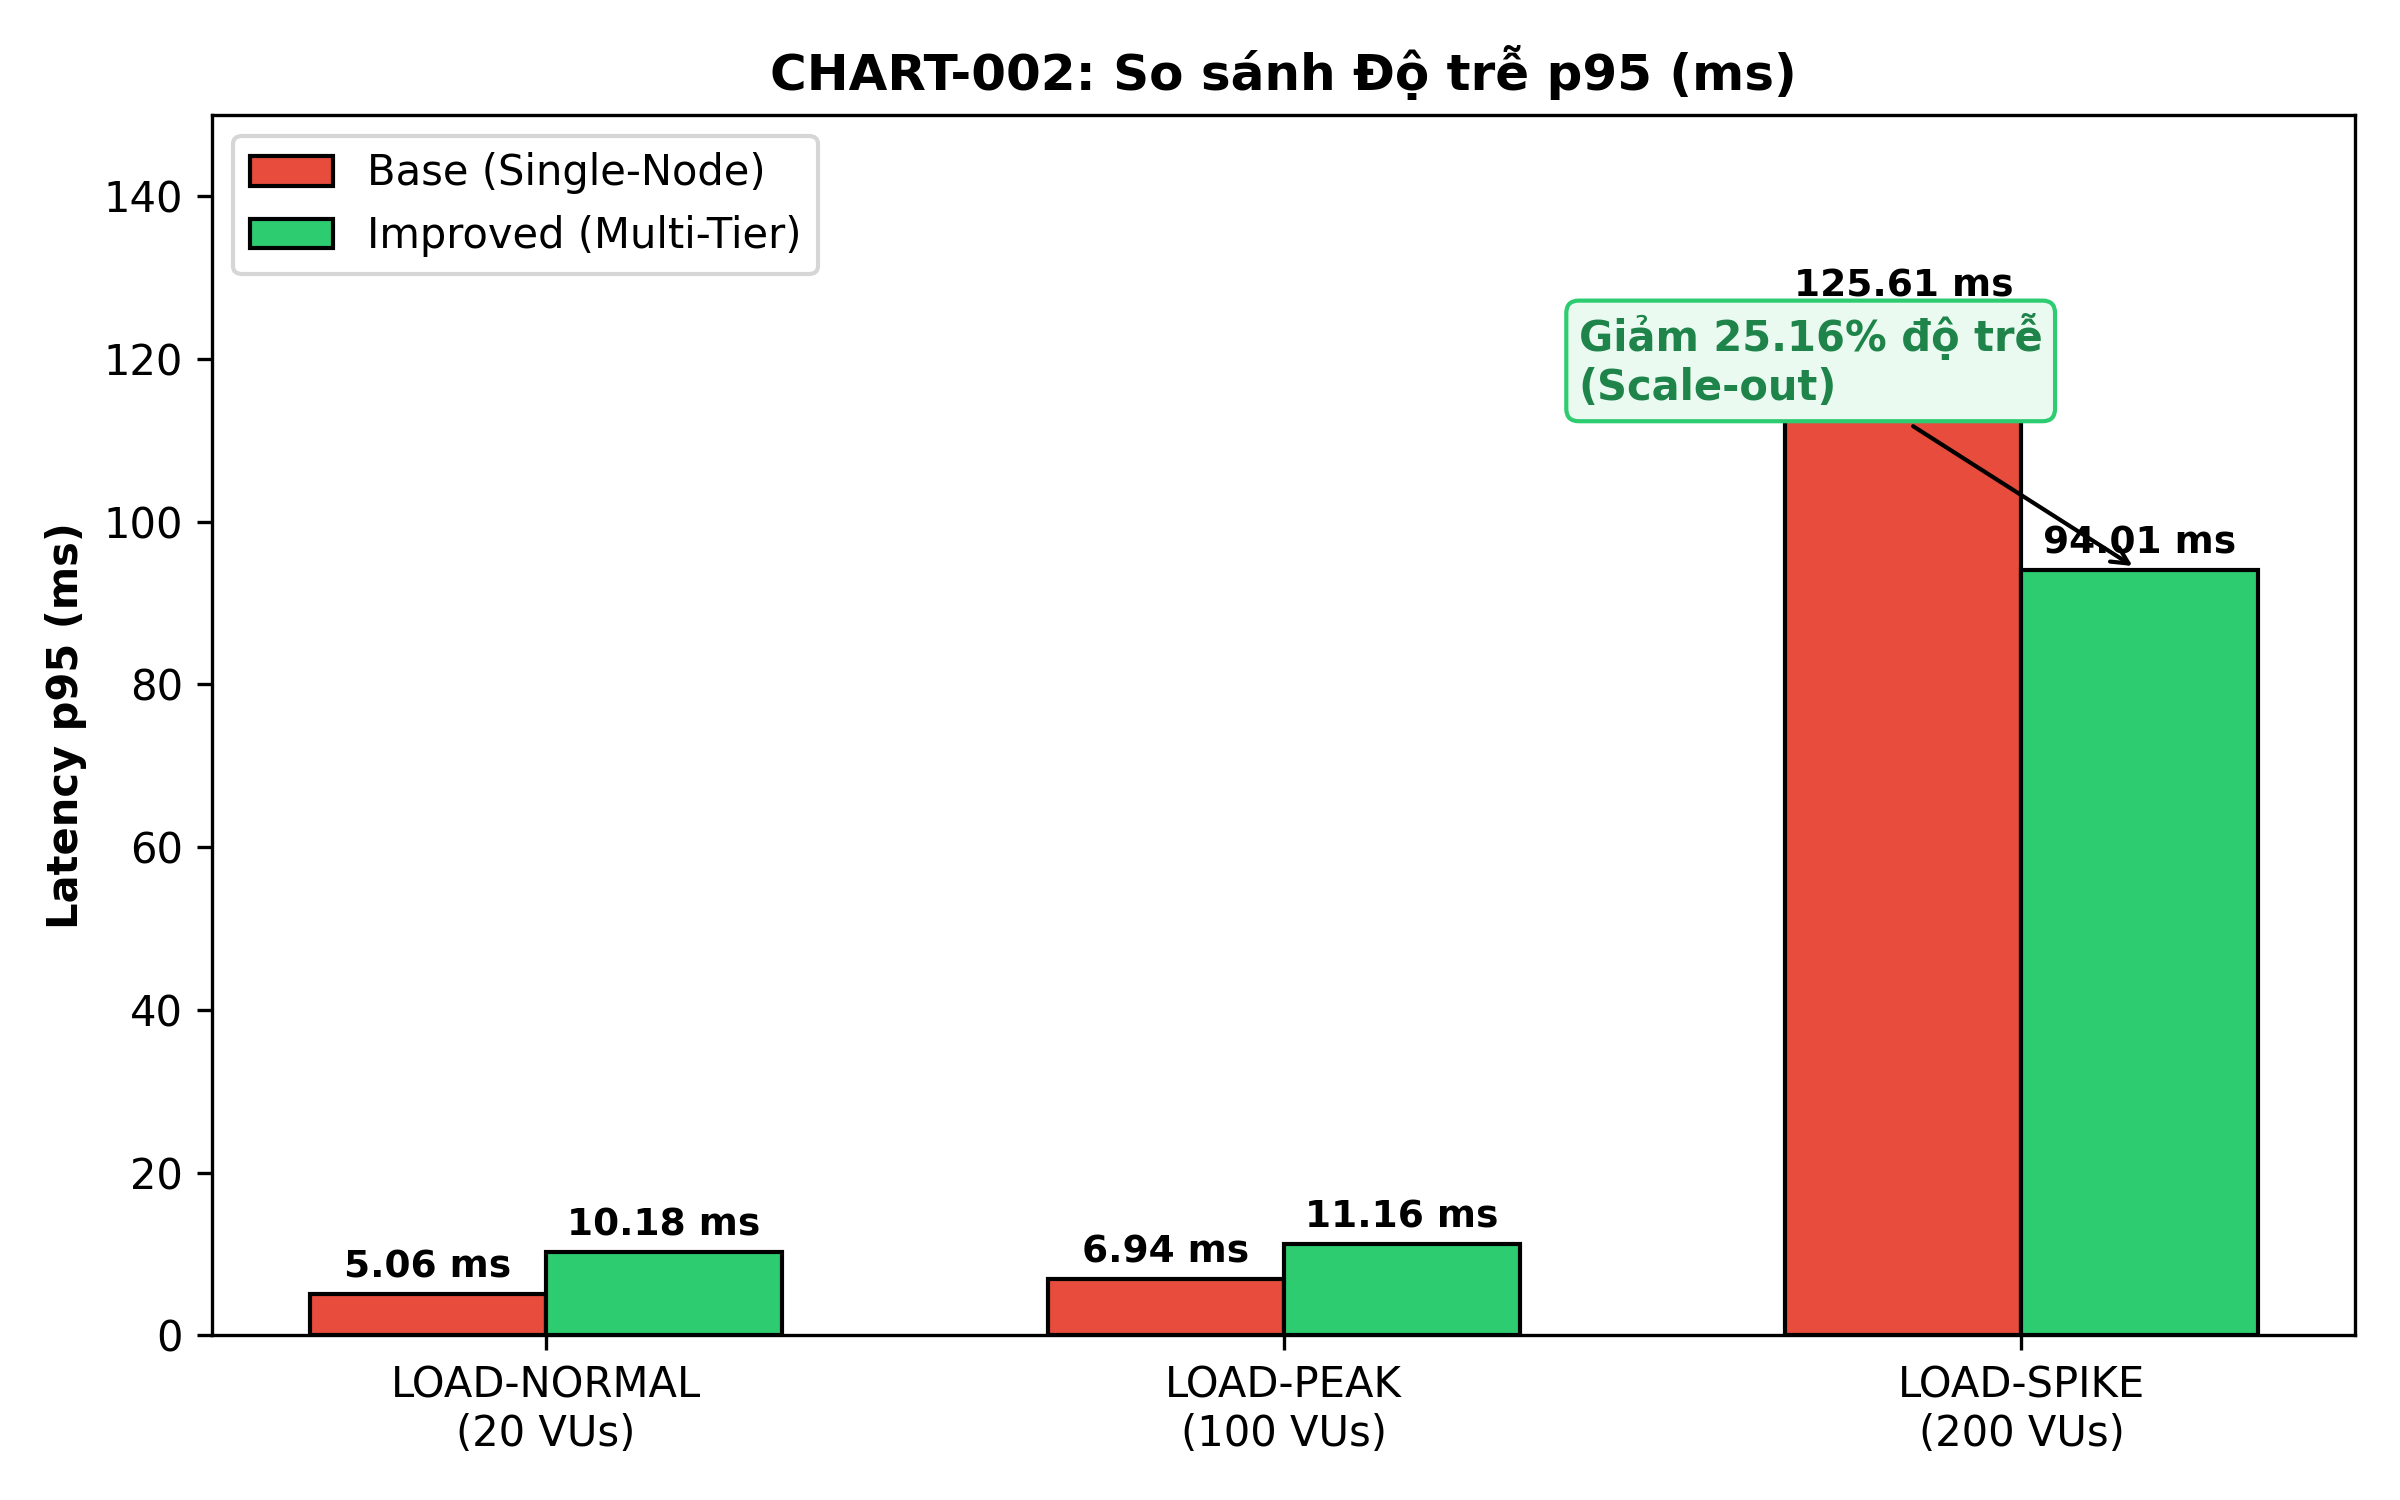
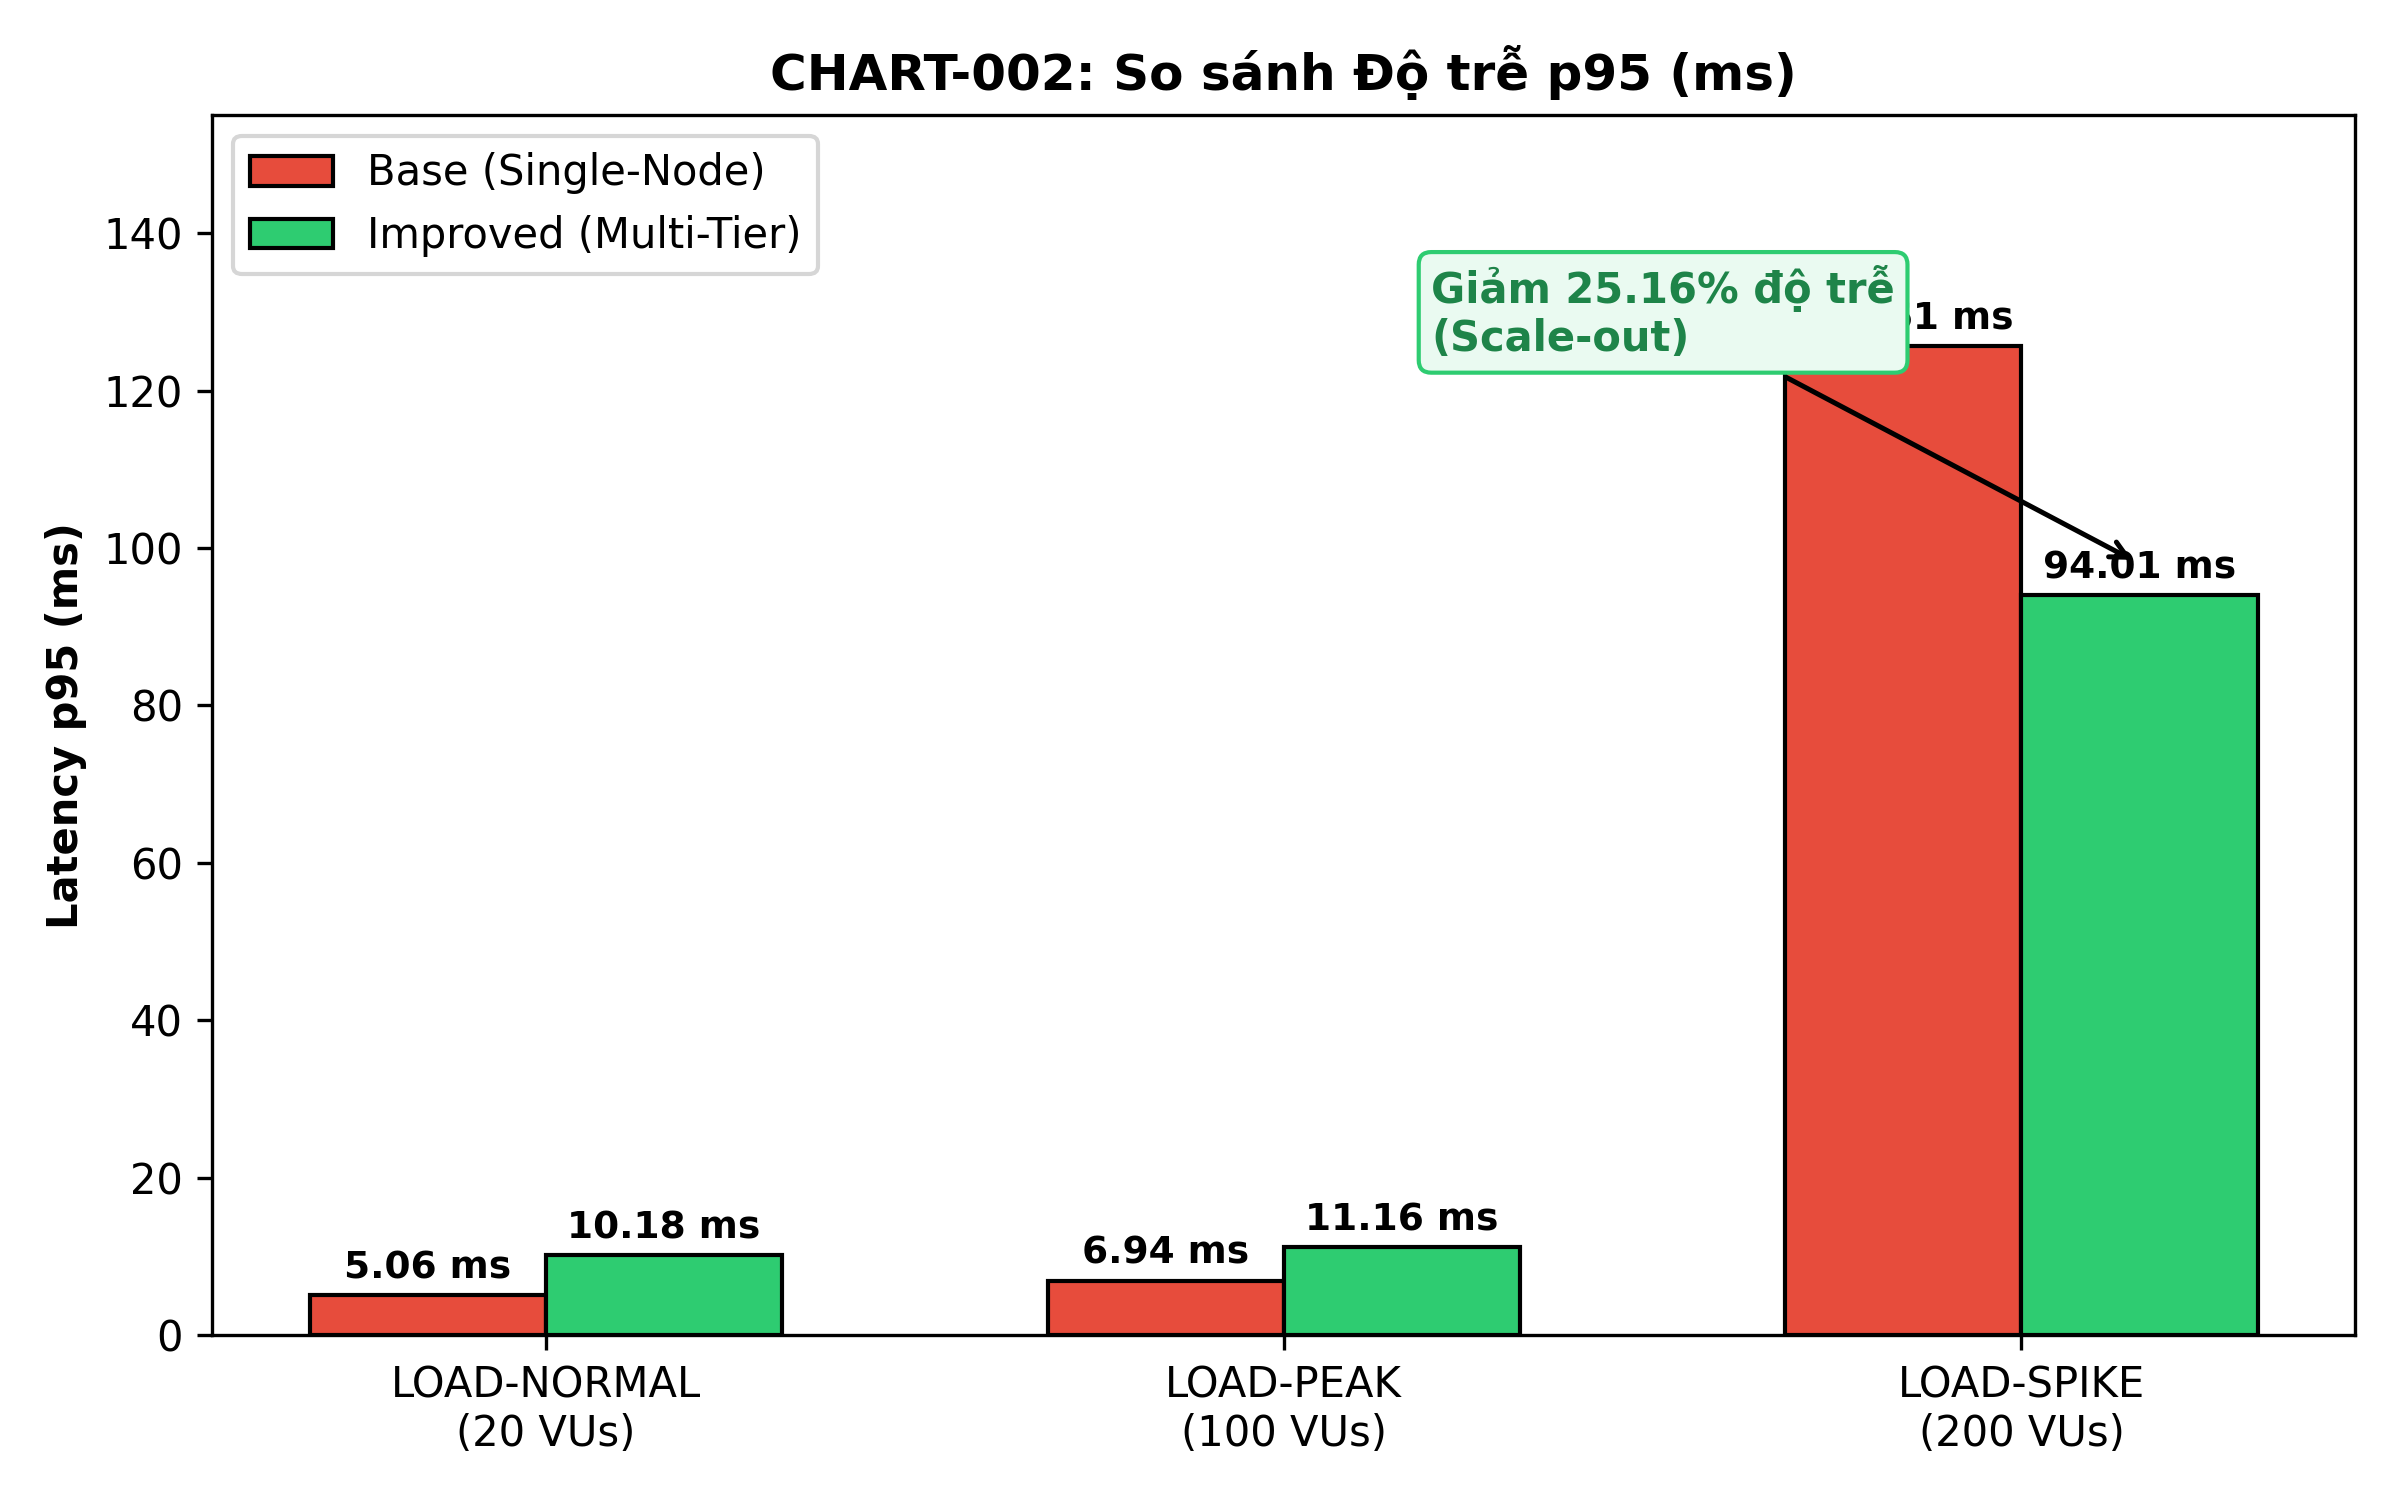
fix(charts): sua loi de chu chart-002 va bo sung duong SLO tren chart-003

diff --git a/scripts/generate_charts.py b/scripts/generate_charts.py
@@ -3,11 +3,10 @@ import pandas as pd
 import matplotlib.pyplot as plt
 import numpy as np
 
-# 1. Tao thu muc luu tru neu chua co
 os.makedirs("results", exist_ok=True)
 os.makedirs("docs/anh", exist_ok=True)
 
-# 2. Tong hop du lieu bang doi dau bang pandas
+# 1. Bảng dữ liệu tổng hợp
 benchmark_data = {
     "Kịch bản": ["LOAD-NORMAL (20 VUs)", "LOAD-PEAK (100 VUs)", "LOAD-SPIKE (200 VUs)"],
     "Throughput_Base_RPS": [86.51, 429.83, 518.94],
@@ -19,14 +18,8 @@ benchmark_data = {
 }
 
 df = pd.DataFrame(benchmark_data)
-csv_path = "results/benchmark_summary.csv"
-df.to_csv(csv_path, index=False, encoding="utf-8-sig")
+df.to_csv("results/benchmark_summary.csv", index=False, encoding="utf-8-sig")
 
-print("=== BẢNG TỔNG HỢP HIỆU NĂNG (PANDAS DATAFRAME) ===")
-print(df.to_string(index=False))
-print(f"\n-> Đã lưu bảng tổng hợp: {csv_path}")
-
-# 3. Ve bieu do bang Matplotlib tu DataFrame
 scenarios = ['LOAD-NORMAL\n(20 VUs)', 'LOAD-PEAK\n(100 VUs)', 'LOAD-SPIKE\n(200 VUs)']
 x = np.arange(len(scenarios))
 width = 0.32
@@ -49,7 +42,7 @@ plt.tight_layout()
 plt.savefig('docs/anh/chart-001-throughput.png')
 plt.close()
 
-# CHART-002: Latency p95
+# CHART-002: Latency p95 (Điều chỉnh mũi tên không đè số)
 fig, ax = plt.subplots(figsize=(8, 5), dpi=300)
 r1 = ax.bar(x - width/2, df["Latency_p95_Base_ms"], width, label='Base (Single-Node)', color='#E74C3C', edgecolor='black')
 r2 = ax.bar(x + width/2, df["Latency_p95_Imp_ms"], width, label='Improved (Multi-Tier)', color='#2ECC71', edgecolor='black')
@@ -58,29 +51,31 @@ ax.set_title('CHART-002: So sánh Độ trễ p95 (ms)', fontweight='bold')
 ax.set_xticks(x)
 ax.set_xticklabels(scenarios)
 ax.legend()
-ax.set_ylim(0, 150)
+ax.set_ylim(0, 155)
 for r in r1 + r2:
     h = r.get_height()
     ax.annotate(f'{h:.2f} ms', xy=(r.get_x() + r.get_width()/2, h), xytext=(0, 4),
                 textcoords="offset points", ha='center', fontweight='bold', fontsize=9)
-ax.annotate('Giảm 25.16% độ trễ\n(Scale-out)', xy=(2 + width/2, 94.01), xytext=(1.4, 115),
-            arrowprops=dict(facecolor='black', arrowstyle='->'),
+# Đặt vị trí text lệch cao hơn và hướng mũi tên rõ ràng
+ax.annotate('Giảm 25.16% độ trễ\n(Scale-out)', xy=(2 + width/2, 98), xytext=(1.2, 125),
+            arrowprops=dict(facecolor='black', arrowstyle='->', lw=1.2),
             fontweight='bold', color='#1E8449',
             bbox=dict(boxstyle="round,pad=0.3", fc="#EAFAF1", ec="#2ECC71"))
 plt.tight_layout()
 plt.savefig('docs/anh/chart-002-latency.png')
 plt.close()
 
-# CHART-003: Error Rate
+# CHART-003: Error Rate (Thêm đường ngưỡng SLO)
 fig, ax = plt.subplots(figsize=(8, 4.5), dpi=300)
 r1 = ax.bar(x - width/2, df["Error_Rate_Base_%"], width, label='Base (Single-Node)', color='#4A90E2', edgecolor='black')
 r2 = ax.bar(x + width/2, df["Error_Rate_Imp_%"], width, label='Improved (Multi-Tier)', color='#50E3C2', edgecolor='black')
+ax.axhline(y=1.0, color='r', linestyle='--', linewidth=1.5, label='SLO Ngưỡng lỗi (≤ 1.0%)')
 ax.set_ylabel('HTTP Error Rate (%)', fontweight='bold')
 ax.set_title('CHART-003: So sánh Tỷ lệ lỗi (%)', fontweight='bold')
 ax.set_xticks(x)
 ax.set_xticklabels(scenarios)
-ax.legend()
-ax.set_ylim(0, 1.0)
+ax.legend(loc='upper right')
+ax.set_ylim(0, 1.5)
 for r in r1 + r2:
     h = r.get_height()
     ax.annotate(f'{h:.2f}%', xy=(r.get_x() + r.get_width()/2, h), xytext=(0, 4),
@@ -89,5 +84,4 @@ plt.tight_layout()
 plt.savefig('docs/anh/chart-003-error-rate.png')
 plt.close()
 
-print("-> Đã xuất 3 biểu đồ vào docs/anh/")
-print("Hoàn tất tái tạo dữ liệu và biểu đồ!")
+print("-> Đã xuất lại 3 biểu đồ chuẩn hóa vào docs/anh/")
